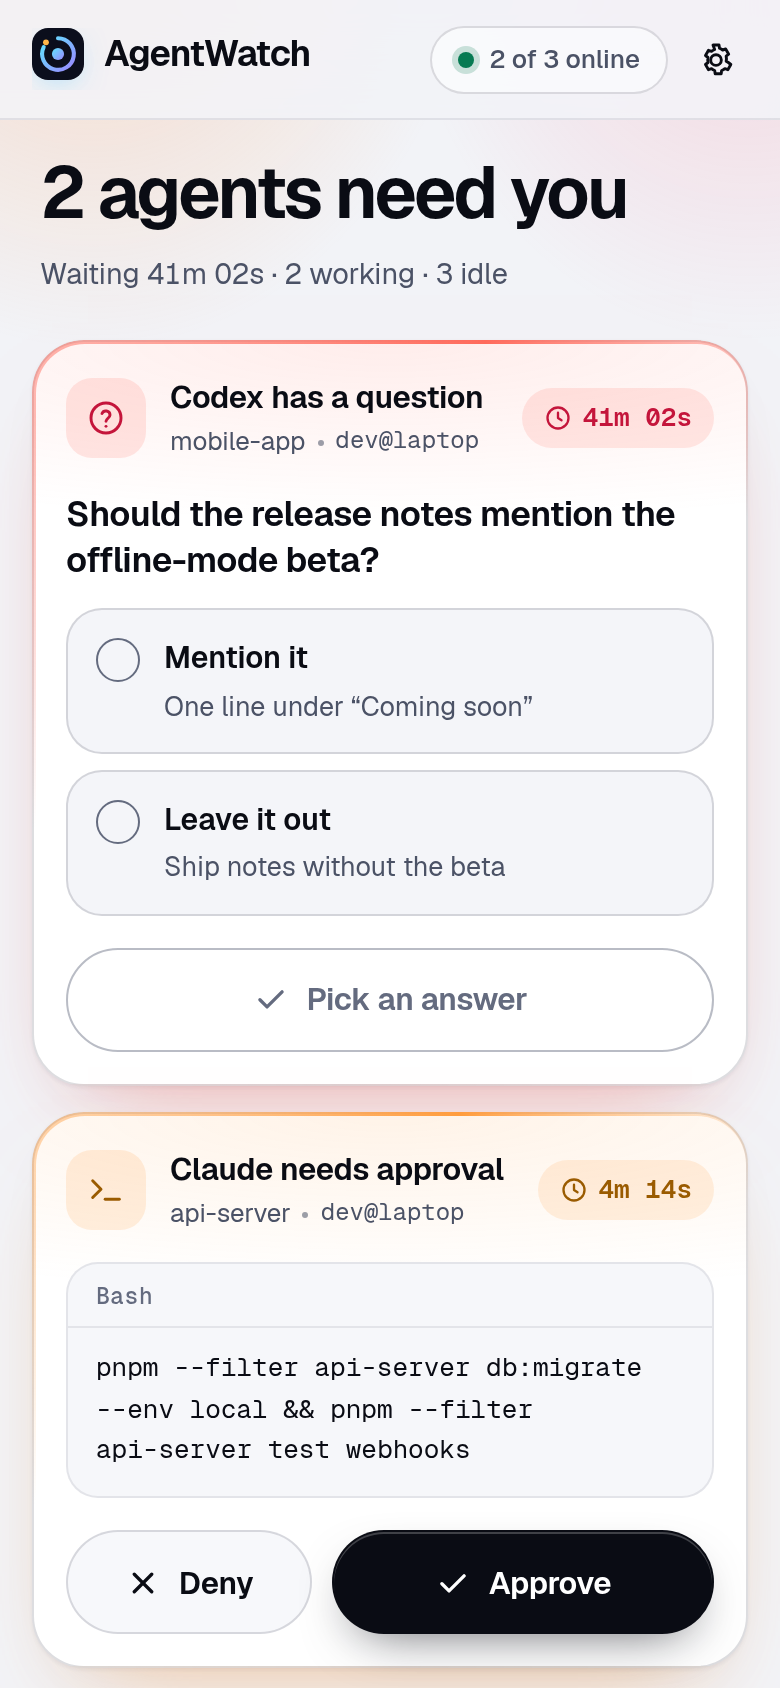
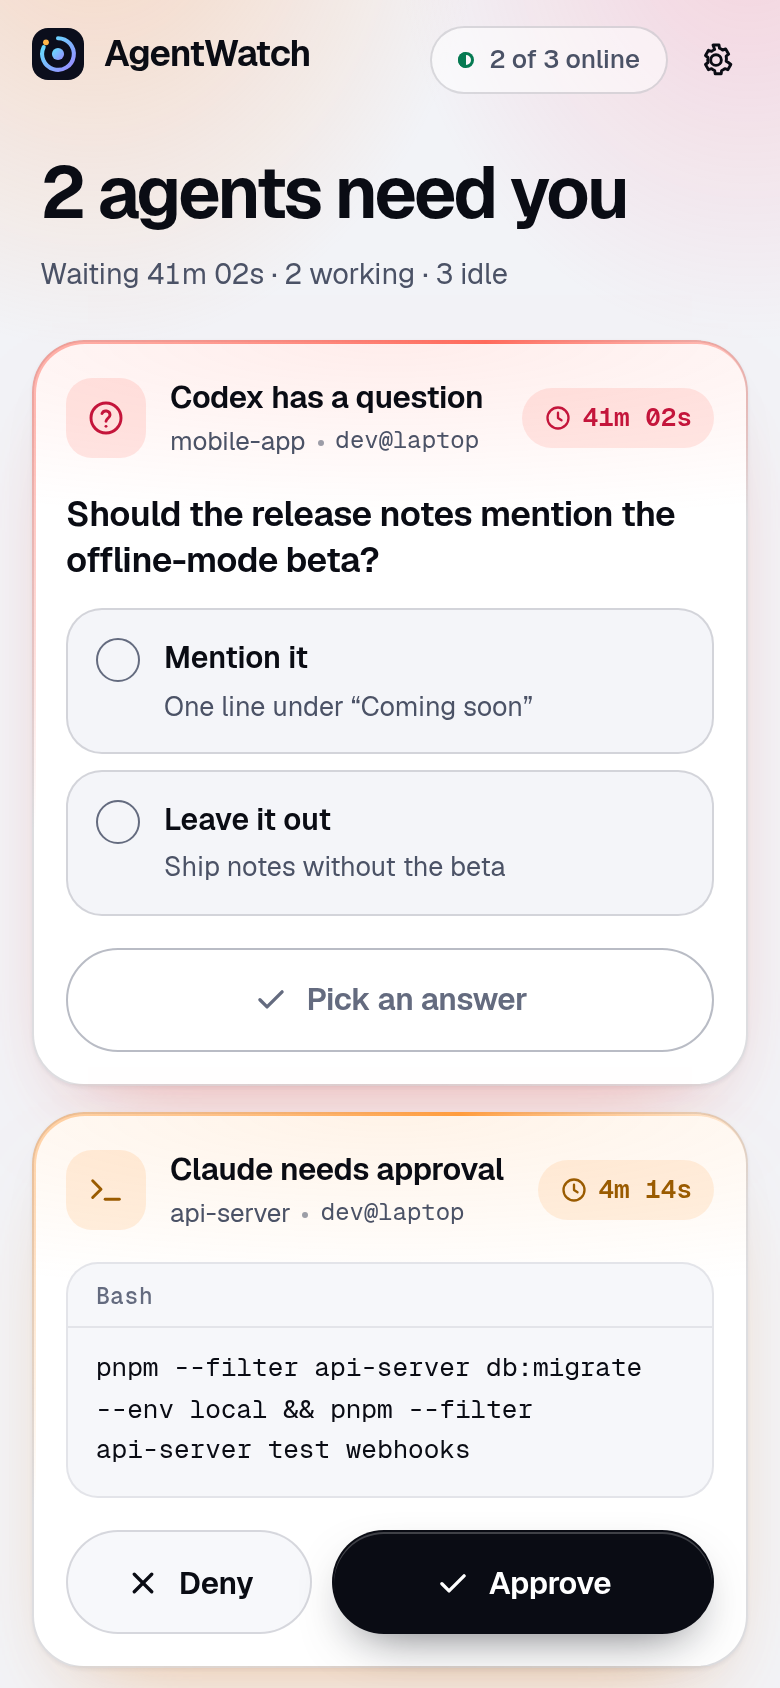
Finish review fixes: frosted bar, quiet system events, honest offline state
- The top bar now actually frosts. Blur radii of 16px and up left a crisp ghost of the text behind in Chrome's
  software compositor, so it's 12px. The frost fades in with scroll, so the sky reads seamlessly at the top, and it
  stays on under reduced motion, because scroll position is not motion. On wide screens the bar spans the window
  while its contents stay on the 600px column.
- System events in a conversation are quiet lines, not bordered cards ("Needed you" replaces "Asked for you").
- While the relay is unreachable, the inbox pill reads "Last known: N of M" with a hollow dot, and source groups dim.
  Partly online gets a half-filled dot.
- Markdown bullets are discs, not the nested-list rings that echoed the radio options.
- No clipped halos behind the brand mark or the header's state dot.
- Plain privacy copy ("Private: states only", "Full text"), and a separator between a row's state and its preview.
- The calm list orbs hold still while a request waits, so the live edge is the one thing moving. A brighter night sky.
- Each demo session has its own conversation, and the screenshots and README are refreshed.

Claude-Session: https://claude.ai/code/session_0176rMgU6VX2d1ThsssNUtNL

Changed region(s): [[0.0, 0.0, 0.3385, 0.0616], [0.5846, 0.0308, 0.6154, 0.0616]]

diff --git a/packages/app/src/styles.css b/packages/app/src/styles.css
@@ -72,10 +72,10 @@
   --del-bg: light-dark(rgb(225 29 72 / 0.1), rgb(255 79 110 / 0.13));
   --del-text: light-dark(#9f1239, #ffa3b3);
 
-  --sky-calm-a: light-dark(rgb(94 180 255 / 0.3), rgb(70 150 255 / 0.22));
-  --sky-calm-b: light-dark(rgb(155 135 255 / 0.24), rgb(155 120 255 / 0.18));
-  --sky-warm-a: light-dark(rgb(255 159 90 / 0.34), rgb(255 138 61 / 0.24));
-  --sky-warm-b: light-dark(rgb(255 95 130 / 0.22), rgb(255 74 107 / 0.16));
+  --sky-calm-a: light-dark(rgb(94 180 255 / 0.3), rgb(70 150 255 / 0.3));
+  --sky-calm-b: light-dark(rgb(155 135 255 / 0.24), rgb(155 120 255 / 0.24));
+  --sky-warm-a: light-dark(rgb(255 159 90 / 0.34), rgb(255 138 61 / 0.32));
+  --sky-warm-b: light-dark(rgb(255 95 130 / 0.22), rgb(255 74 107 / 0.22));
   --sky-off-a: light-dark(rgb(120 130 150 / 0.18), rgb(140 150 170 / 0.12));
   --sky-off-b: light-dark(rgb(120 130 150 / 0.1), rgb(140 150 170 / 0.06));
 
@@ -104,6 +104,7 @@ html {
 body {
   margin: 0;
   min-height: 100dvh;
+  overflow-x: clip;
   background: var(--bg);
   color: var(--text);
   font: 400 15px / 1.5 var(--font);
@@ -174,7 +175,6 @@ pre,
   max-width: 600px;
   min-height: 100dvh;
   margin: 0 auto;
-  overflow-x: clip;
   isolation: isolate;
   --sky-a: var(--sky-calm-a);
   --sky-b: var(--sky-calm-b);
@@ -202,7 +202,8 @@ pre,
     --sky-b 1.4s var(--ease);
 }
 .view {
-  animation: view-in 0.55s var(--ease) both;
+  /* backwards, not both: a filled opacity animation would make .view a backdrop root and stop the bar frosting. */
+  animation: view-in 0.55s var(--ease) backwards;
 }
 @keyframes view-in {
   from {
@@ -221,8 +222,9 @@ pre,
   min-height: calc(60px + env(safe-area-inset-top));
   padding: env(safe-area-inset-top) 10px 0 16px;
   border-bottom: 1px solid transparent;
-  -webkit-backdrop-filter: blur(22px) saturate(1.7);
-  backdrop-filter: blur(22px) saturate(1.7);
+  /* The glass fades in with scroll: clear over the sky at the top, frosted once content slides under it. Browsers
+     without scroll timelines get the frosted end state. 12px: larger radii leave a crisp ghost of the text behind in
+     Chrome's software compositor. */
   animation: bar-solid linear both;
   animation-timeline: scroll(root);
   animation-range: 0 56px;
@@ -231,14 +233,27 @@ pre,
   from {
     background-color: transparent;
     border-bottom-color: transparent;
+    -webkit-backdrop-filter: blur(0) saturate(1);
+    backdrop-filter: blur(0) saturate(1);
   }
   to {
-    background-color: color-mix(in oklab, var(--bg) 90%, transparent);
+    background-color: color-mix(in oklab, var(--bg) 78%, transparent);
     border-bottom-color: var(--line);
+    -webkit-backdrop-filter: blur(12px) saturate(1.5);
+    backdrop-filter: blur(12px) saturate(1.5);
   }
 }
 .bar:has(.icon-btn:first-child) {
   padding-left: 6px;
+}
+@media (min-width: 640px) {
+  .bar {
+    margin-inline: calc(300px - 50vw);
+    padding-inline: calc(50vw - 284px) calc(50vw - 290px);
+  }
+  .bar:has(.icon-btn:first-child) {
+    padding-left: calc(50vw - 294px);
+  }
 }
 .bar-text {
   flex: 1;
@@ -282,7 +297,6 @@ pre,
 }
 .brand .mark-logo {
   border-radius: 8px;
-  box-shadow: 0 4px 14px -4px rgb(94 200 255 / 0.5);
 }
 .icon-btn {
   display: grid;
@@ -335,6 +349,10 @@ pre,
 .dot.off {
   background: transparent;
   box-shadow: inset 0 0 0 1.5px var(--text-3);
+}
+.dot.part {
+  background: linear-gradient(90deg, var(--ok) 50%, transparent 0);
+  box-shadow: inset 0 0 0 1.5px var(--ok);
 }
 
 /* ── Banners, empty and loading states ────────────────────────────────────────────────────────────────────────── */
@@ -594,6 +612,9 @@ pre,
   -webkit-line-clamp: 2;
   -webkit-box-orient: vertical;
 }
+.row-sub .sep {
+  margin: 0 7px;
+}
 .row.more {
   justify-content: center;
   min-height: 52px;
@@ -666,12 +687,15 @@ pre,
   background: var(--orb);
   animation: ping 1.9s var(--ease) infinite;
 }
+.app[data-mood="waiting"] .list .orb::after {
+  animation-play-state: paused;
+}
 .orb.small {
   align-self: center;
   width: 7px;
   height: 7px;
   margin: 0 2px 0 0;
-  box-shadow: 0 0 10px color-mix(in oklab, var(--orb) 60%, transparent);
+  box-shadow: 0 0 0 3px color-mix(in oklab, var(--orb) 18%, transparent);
 }
 .orb.small::after {
   display: none;
@@ -1185,22 +1209,19 @@ pre,
 }
 .sys {
   display: flex;
-  align-items: flex-start;
+  align-items: center;
   gap: 10px;
-  padding: 9px 12px 9px 10px;
-  border: 1px solid var(--line);
-  border-radius: 16px;
-  background: color-mix(in oklab, var(--surface) 72%, transparent);
+  padding: 2px 4px;
   color: var(--text-2);
   font-size: 13.5px;
 }
 .sys-icon {
   display: grid;
   place-items: center;
-  width: 28px;
-  height: 28px;
+  width: 22px;
+  height: 22px;
   flex: none;
-  border-radius: 9px;
+  border-radius: 7px;
   background: var(--surface-2);
   color: var(--text-2);
 }
@@ -1219,9 +1240,8 @@ pre,
 .sys-main {
   display: grid;
   flex: 1;
-  gap: 3px;
+  gap: 2px;
   min-width: 0;
-  padding-top: 4px;
 }
 .sys-label {
   color: var(--text);
@@ -1235,7 +1255,6 @@ pre,
   text-overflow: ellipsis;
 }
 .sys time {
-  padding-top: 5px;
   color: var(--text-3);
   font-size: 12px;
   font-variant-numeric: tabular-nums;
@@ -1451,6 +1470,15 @@ pre,
 .md ul,
 .md ol {
   padding-left: 1.35em;
+}
+.md ul {
+  list-style-type: disc;
+}
+.md ul ul {
+  list-style-type: circle;
+}
+.md ol {
+  list-style-type: decimal;
 }
 .md li {
   padding-left: 0.2em;
@@ -1990,9 +2018,8 @@ input::placeholder {
     animation: none !important;
     opacity: 0;
   }
+  /* The bar's fill follows scroll position, not time, so it stays on. */
   .bar {
-    animation: none;
-    background-color: color-mix(in oklab, var(--bg) 90%, transparent);
-    border-bottom-color: var(--line);
+    animation-duration: auto !important;
   }
 }

diff --git a/packages/app/src/screens/inbox.tsx b/packages/app/src/screens/inbox.tsx
@@ -39,8 +39,12 @@ export function Inbox({ app, now, go }: { app: AppState; now: number; go: (hash:
       >
         {model && total > 0 && (
           <button type="button" class="pill" onClick={() => go('#/settings')} aria-label="Computers">
-            <span class={`dot ${online === 0 ? 'off' : online < total ? 'part' : ''}`} />
-            {online === total ? `${total} online` : `${online} of ${total} online`}
+            <span class={`dot ${app.error || online === 0 ? 'off' : online < total ? 'part' : ''}`} />
+            {app.error
+              ? `Last known: ${online} of ${total}`
+              : online === total
+                ? `${total} online`
+                : `${online} of ${total} online`}
           </button>
         )}
         <button type="button" class="icon-btn" onClick={() => go('#/settings')} aria-label="Settings">
@@ -170,6 +174,7 @@ function Board({ model, app, now, go }: { model: Model; app: AppState; now: numb
           key={src.id}
           source={src}
           sessions={model.sessions.filter((s) => s.sourceId === src.id)}
+          stale={!!app.error}
           now={t}
           go={go}
         />
@@ -181,11 +186,14 @@ function Board({ model, app, now, go }: { model: Model; app: AppState; now: numb
 function SourceGroup({
   source,
   sessions,
+  stale,
   now,
   go,
 }: {
   source: SourceView
   sessions: SessionVM[]
+  /** The relay can't be reached, so this is only what was last known. */
+  stale: boolean
   now: number
   go: (hash: string) => void
 }) {
@@ -195,14 +203,14 @@ function SourceGroup({
     .sort((a, b) => (STATE_ORDER[a.state] ?? 9) - (STATE_ORDER[b.state] ?? 9) || b.stateSince - a.stateSince)
   const ended = sessions.filter((s) => s.state === 'ended').sort((a, b) => b.stateSince - a.stateSince)
   return (
-    <section aria-label={sourceLabel(source)} class={`group ${source.online ? '' : 'stale'}`}>
+    <section aria-label={sourceLabel(source)} class={`group ${source.online && !stale ? '' : 'stale'}`}>
       <h2 class="group-head">
         <Laptop />
         <span class="who">{sourceLabel(source)}</span>
         <span class="group-meta">
           <span class={`dot ${source.online ? '' : 'off'}`} />
           {source.online ? 'Online' : `Offline ${ago(source.lastSeen, now)}`}
-          {source.privacy === 'summary' ? ' · Summary' : ''}
+          {source.privacy === 'summary' ? ' · Private: states only' : ''}
         </span>
       </h2>
       {!source.online && live.length > 0 && <p class="group-note">Showing what it last reported.</p>}
@@ -254,7 +262,12 @@ function Row({ s, now, go }: { s: SessionVM; now: number; go: (hash: string) => 
             <span class="state-word" data-state={s.state}>
               {STATE_LABEL[s.state]}
             </span>
-            {text && <span class="row-snippet"> {text}</span>}
+            {text && (
+              <>
+                <span class="sep" aria-hidden="true" />
+                <span class="row-snippet">{text}</span>
+              </>
+            )}
           </span>
         </span>
         <Chevron />

diff --git a/packages/app/src/lib/demo.ts b/packages/app/src/lib/demo.ts
@@ -137,6 +137,28 @@ export function demoEvents(now = Date.now(), sessionId = 's1'): EventVM[] {
       { at: now - 55 * min, kind: 'prompted', text: 'Start by reading the docs folder and listing what is missing.' },
     ]
   }
+  if (sessionId === 's2') {
+    return [
+      { at: now - 41 * min, kind: 'needs_you', text: 'Should the release notes mention the offline-mode beta?' },
+      { at: now - 44 * min, kind: 'prompted', text: 'Draft the 3.8 release notes from the PRs merged since 3.7.' },
+    ]
+  }
+  if (sessionId === 's3') {
+    return [
+      {
+        at: now - 7 * min,
+        kind: 'prompted',
+        text: 'Now generate the dark palette from `tokens/light.json`. Every text and background pair must pass **WCAG AA**.',
+      },
+      {
+        at: now - 26 * min,
+        kind: 'done',
+        text: 'The light palette is in `tokens/light.json`:\n\n- 12 neutrals, from `gray-0` to `gray-11`\n- 5 accents, each with a hover and a muted step',
+      },
+      { at: now - 31 * min, kind: 'prompted', text: 'Start with the light palette, built from the brand blue.' },
+    ]
+  }
+  if (sessionId !== 's1') return []
   return [
     { at: now - 4 * min, kind: 'needs_you', text: 'pnpm --filter api-server db:migrate --env local' },
     { at: now - 9 * min, kind: 'answered', text: 'Approved from phone' },

diff --git a/packages/app/src/screens/settings.tsx b/packages/app/src/screens/settings.tsx
@@ -230,7 +230,7 @@ function Machines({ app, now }: { app: AppState; now: number }) {
               {s.online ? 'Online' : `Offline · last seen ${ago(s.lastSeen, now)} ago`}
             </span>
             <span class="hint">
-              {s.privacy === 'summary' ? 'Summary privacy: no text leaves it' : 'Full detail'}
+              {s.privacy === 'summary' ? 'Private: states only, no text leaves it' : 'Full text'}
               {s.allowMessages ? '' : ' · No replies'}
             </span>
             <span class="hint">

diff --git a/packages/app/src/screens/session.tsx b/packages/app/src/screens/session.tsx
@@ -49,7 +49,7 @@ function thread(events: EventVM[], s: SessionVM): Item[] {
         )
         break
       case 'needs_you':
-        items.push({ k: 'sys', at: e.at, icon: 'ask', label: 'Asked for you', text: e.text })
+        items.push({ k: 'sys', at: e.at, icon: 'ask', label: 'Needed you', text: e.text })
         break
       case 'answered':
         items.push({ k: 'sys', at: e.at, icon: 'ok', label: e.text ?? 'Answered' })

diff --git a/DESIGN.md b/DESIGN.md
@@ -245,8 +245,10 @@ never decorates.
 ## Elevation & Depth
 
 There are three layers. The ground carries the sky. Surfaces (lists, cards, the composer) sit on soft two-part
-shadows (`--shadow`: a 1px contact plus a long, low-opacity drop). Chrome (the bar) is frosted glass that solidifies
-as content scrolls under it, using a scroll-driven animation. A request card adds a heat-tinted glow under itself.
+shadows (`--shadow`: a 1px contact plus a long, low-opacity drop). Chrome (the bar) is clear over the sky at the top and
+frosts (12px blur, 78% ground) as content scrolls under it, using a scroll-driven animation. Scroll position is not
+motion, so this stays on under reduced motion. On wide screens the bar spans the window while its contents stay on
+the 600px column. A request card adds a heat-tinted glow under itself.
 That glow is the only coloured shadow, and it means "waiting".
 
 ### Named Rules
@@ -289,7 +291,8 @@ Separators are inset, and rows from an offline computer show grey orbs.
 ### Conversation
 - **You:** right-aligned bubbles, with the time below (plus "From your phone" for replies).
 - **Agent:** a gradient monogram avatar, then Markdown at full width with no bubble.
-- **System events:** a compact row with an icon tile, a label, one line of mono detail, and the time.
+- **System events:** a quiet line, not a card: a 22px icon tile, a label ("Needed you", "Approved from phone"), one
+  line of mono detail, and the time. No border or fill, so they never weigh as much as a request card.
 
 ### Markdown
 - Paragraphs keep the agent's line breaks.

diff --git a/packages/app/.impeccable/surfaces/index-html.md b/packages/app/.impeccable/surfaces/index-html.md
@@ -16,7 +16,8 @@ question shown before the decision, never a summary of it.
 
 **Decision round:** the owner rejected the previous "kitchen ticket rail" world as dated ("built in the 80s") and
 pinned the replacement in their own words: "modern, futuristic and perfect", with formatted agent responses. Pinned
-direction beats the roll, so no concept-seed was run; built code-led (Operate surface).
+direction beats the roll: the concept roll dealt for the previous world (seed in FORM) was overridden by the owner's
+pinned words, with no reroll; built code-led (Operate surface).
 
 ## Direction contract
 
@@ -41,6 +42,6 @@ grouped by user@host in inset lists: state orb, project, agent · age, state wor
 FORM: owner-pinned "modern, futuristic"; standing canon at premium-app craft, with two signature moves: the ambient
 sky (top-of-screen light that is cool when calm and warms when anything waits) and the live edge (a slow-turning
 heat-coloured light around each waiting request). State orbs: orbiting arc while working, ping while it needs you.
-seed: none (direction pinned by the owner)
+seed:7abff6d86f882161 (dealt for the previous world; overridden by the owner's pinned direction)
 
 FINISH: unreviewed and undocumented is unfinished; this build ends with the finish review, the verdict, DESIGN.md, and every shipping raster carrying its provenance

diff --git a/README.md b/README.md
@@ -8,9 +8,9 @@ It runs on your own free Cloudflare account and is end-to-end encrypted, so Clou
 There's no app store app, no third-party push service and no subscription.
 
 <p>
-  <img src="docs/screenshots/inbox-light.png" width="260" alt="Inbox: a Codex question and a Claude approval waiting on the rail, sessions listed below">
-  <img src="docs/screenshots/session-approval-dark.png" width="260" alt="A Claude approval showing the exact command, with Deny and Approve">
-  <img src="docs/screenshots/session-reply-light.png" width="260" alt="An idle session with its last message, timeline and a reply box">
+  <img src="docs/screenshots/inbox-dark.png" width="260" alt="Inbox: a Codex question and a Claude approval waiting as cards, with every session listed below by computer">
+  <img src="docs/screenshots/session-approval-light.png" width="260" alt="A Claude approval in its conversation, showing the exact command with Deny and Approve">
+  <img src="docs/screenshots/session-reply-dark.png" width="260" alt="A finished Claude session: its last message rendered as Markdown with a list, a table and a code block, and a reply box">
 </p>
 
 ## How it works
